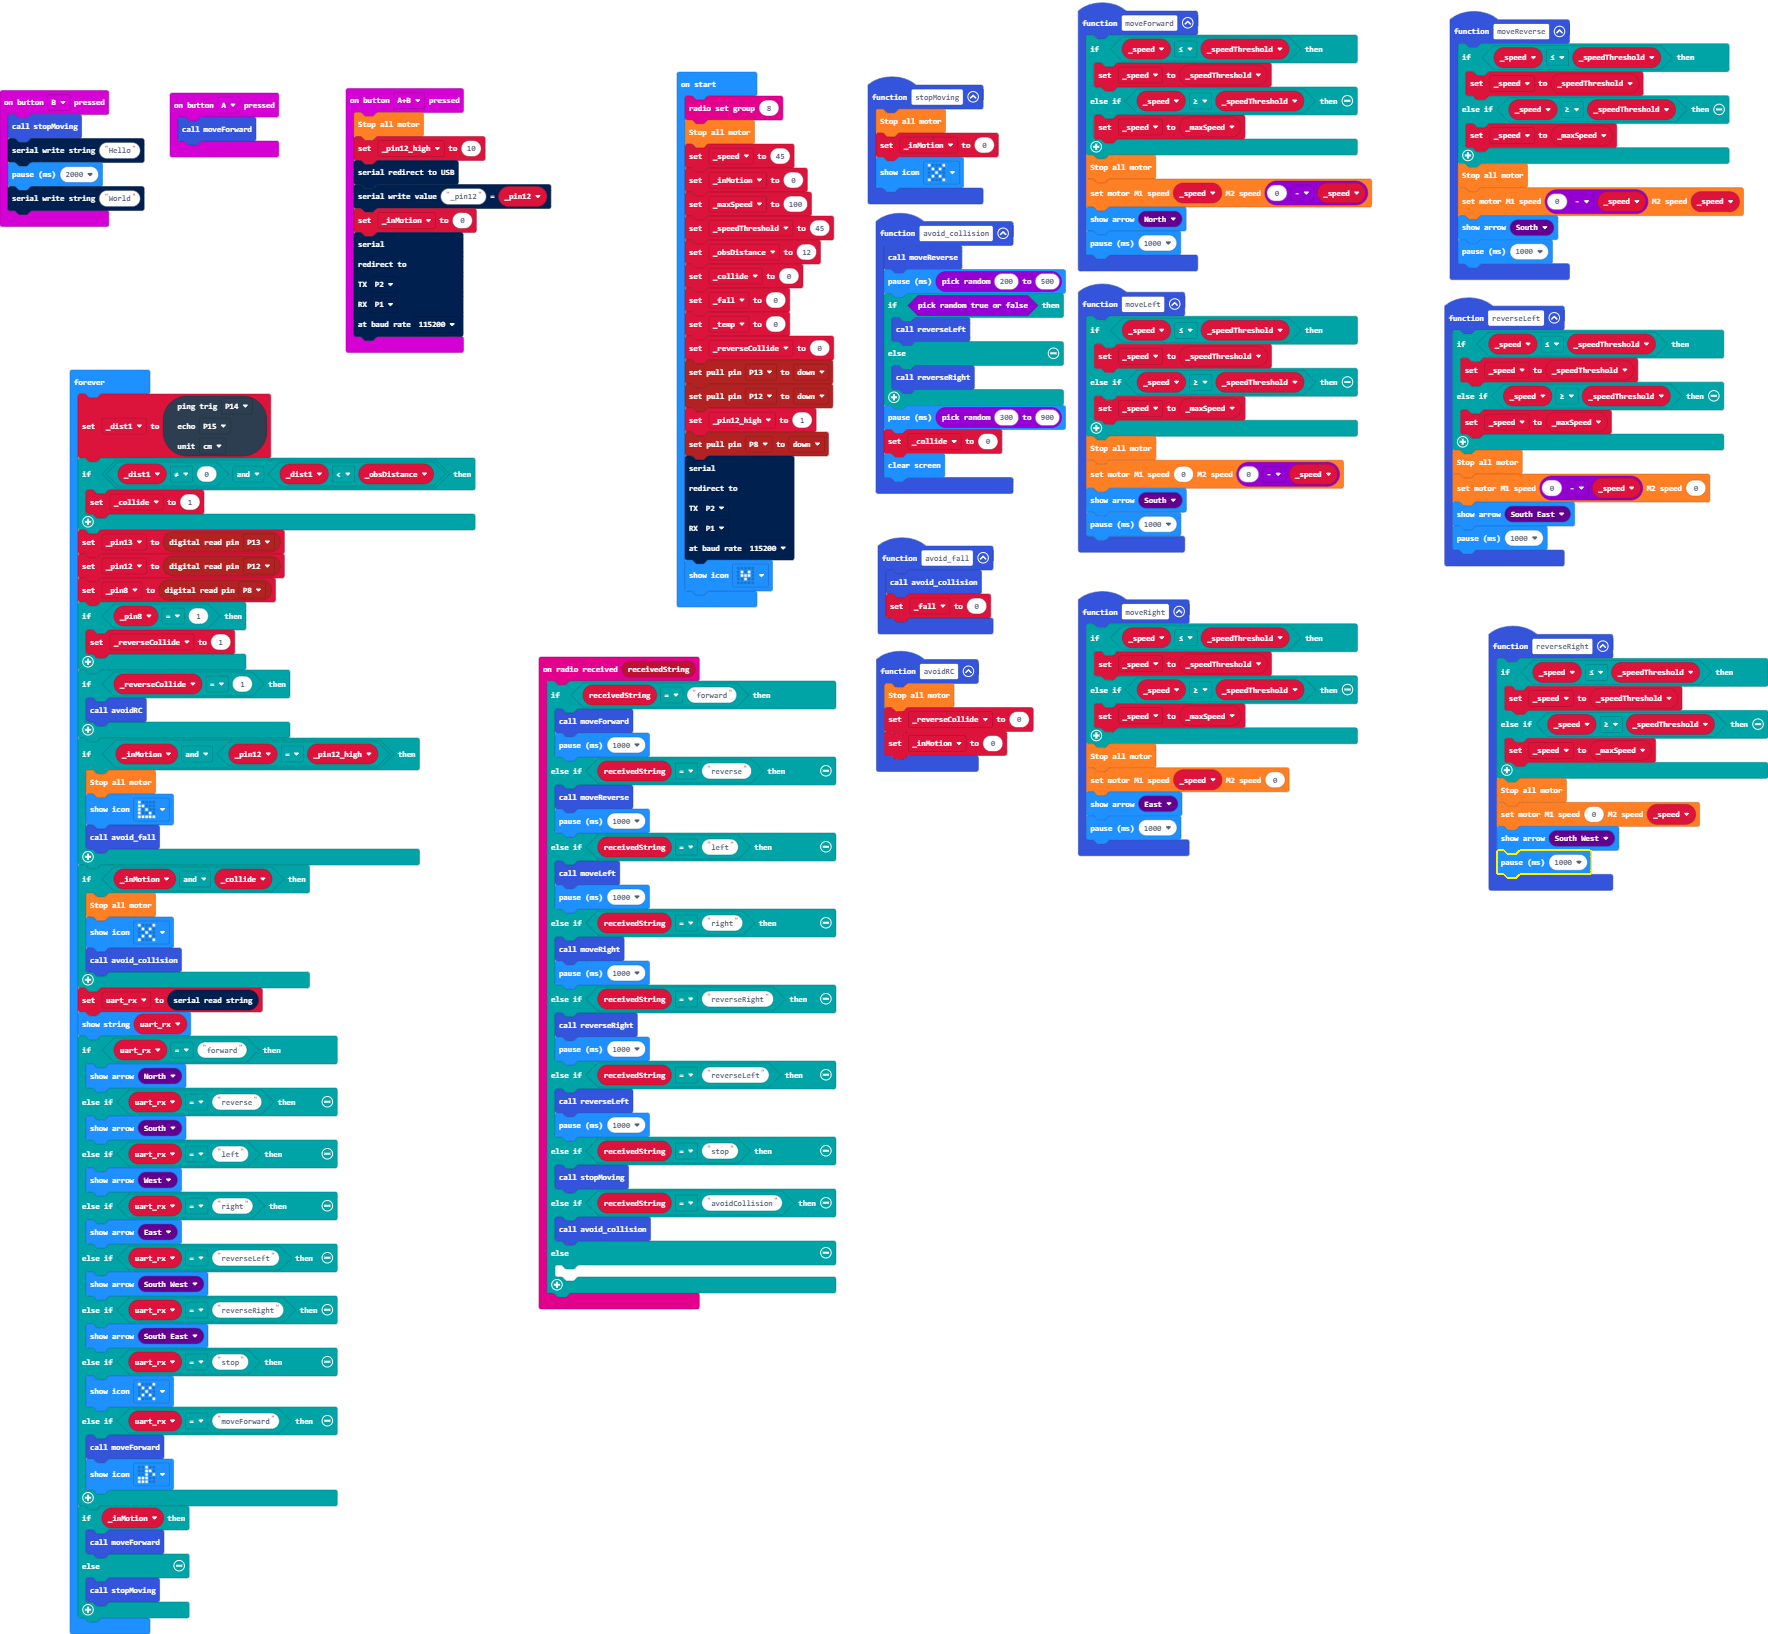
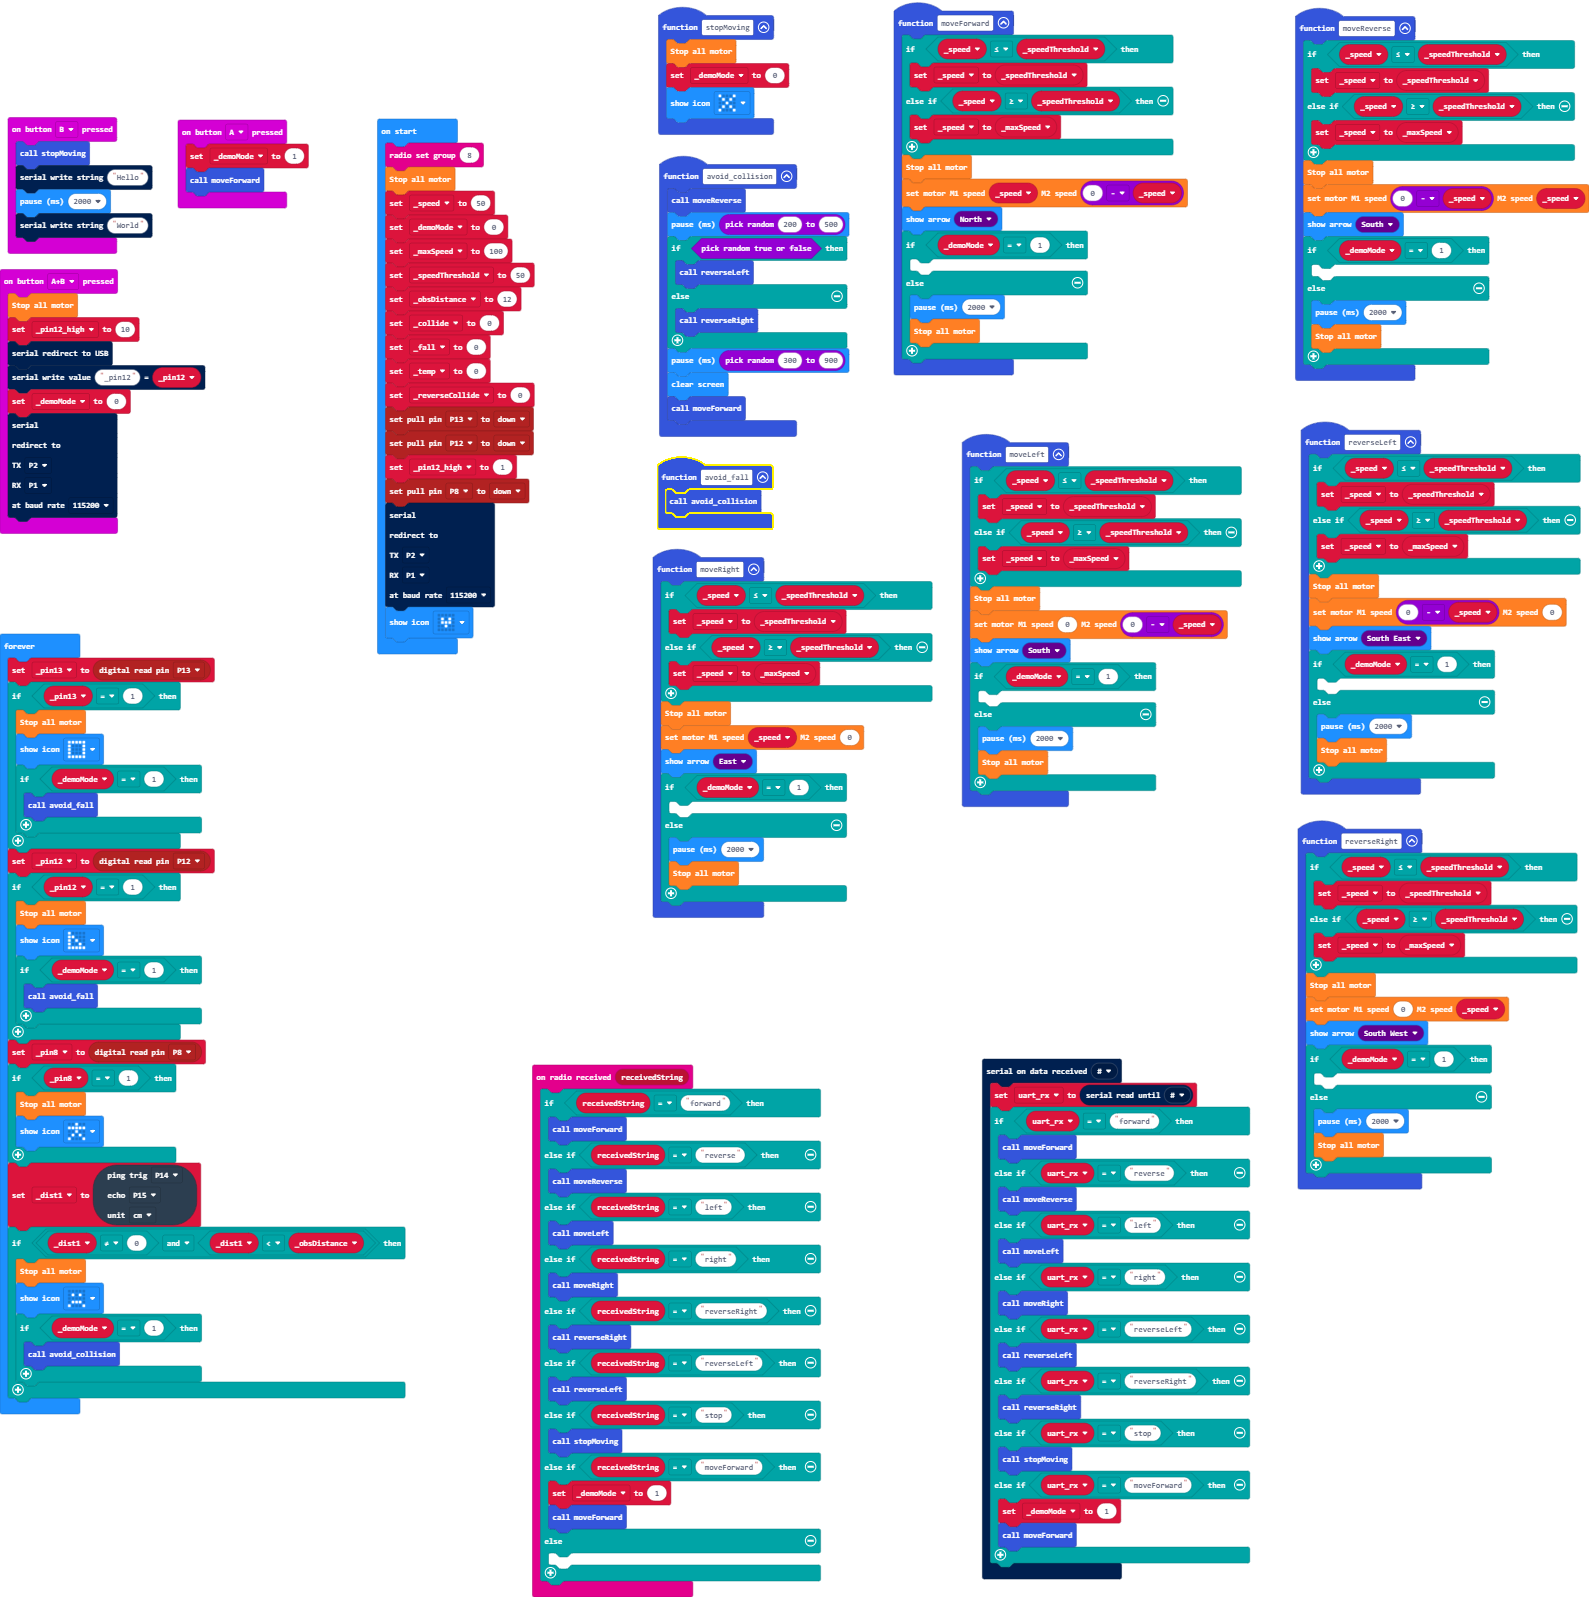
Update main.blocks, main.ts

diff --git a/main.ts b/main.ts
@@ -7,7 +7,12 @@ function moveReverse () {
     wuKong.stopAllMotor()
     wuKong.setAllMotor(0 - _speed, _speed)
     basic.showArrow(ArrowNames.South)
-    basic.pause(1000)
+    if (_demoMode == 1) {
+    	
+    } else {
+        basic.pause(2000)
+        wuKong.stopAllMotor()
+    }
 }
 function moveRight () {
     if (_speed <= _speedThreshold) {
@@ -18,7 +23,12 @@ function moveRight () {
     wuKong.stopAllMotor()
     wuKong.setAllMotor(_speed, 0)
     basic.showArrow(ArrowNames.East)
-    basic.pause(1000)
+    if (_demoMode == 1) {
+    	
+    } else {
+        basic.pause(2000)
+        wuKong.stopAllMotor()
+    }
 }
 function moveForward () {
     if (_speed <= _speedThreshold) {
@@ -29,7 +39,12 @@ function moveForward () {
     wuKong.stopAllMotor()
     wuKong.setAllMotor(_speed, 0 - _speed)
     basic.showArrow(ArrowNames.North)
-    basic.pause(1000)
+    if (_demoMode == 1) {
+    	
+    } else {
+        basic.pause(2000)
+        wuKong.stopAllMotor()
+    }
 }
 function avoid_collision () {
     moveReverse()
@@ -40,15 +55,16 @@ function avoid_collision () {
         reverseRight()
     }
     basic.pause(randint(300, 900))
-    _collide = 0
     basic.clearScreen()
+    moveForward()
 }
 input.onButtonPressed(Button.A, function () {
+    _demoMode = 1
     moveForward()
 })
 function stopMoving () {
     wuKong.stopAllMotor()
-    _inMotion = 0
+    _demoMode = 0
     basic.showIcon(IconNames.No)
 }
 function reverseLeft () {
@@ -60,19 +76,19 @@ function reverseLeft () {
     wuKong.stopAllMotor()
     wuKong.setAllMotor(0 - _speed, 0)
     basic.showArrow(ArrowNames.SouthEast)
-    basic.pause(1000)
-}
-function avoidRC () {
-    wuKong.stopAllMotor()
-    _reverseCollide = 0
-    _inMotion = 0
+    if (_demoMode == 1) {
+    	
+    } else {
+        basic.pause(2000)
+        wuKong.stopAllMotor()
+    }
 }
 input.onButtonPressed(Button.AB, function () {
     wuKong.stopAllMotor()
     _pin12_high = 10
     serial.redirectToUSB()
     serial.writeValue("_pin12", _pin12)
-    _inMotion = 0
+    _demoMode = 0
     serial.redirect(
     SerialPin.P2,
     SerialPin.P1,
@@ -82,26 +98,21 @@ input.onButtonPressed(Button.AB, function () {
 radio.onReceivedString(function (receivedString) {
     if (receivedString == "forward") {
         moveForward()
-        basic.pause(1000)
     } else if (receivedString == "reverse") {
         moveReverse()
-        basic.pause(1000)
     } else if (receivedString == "left") {
         moveLeft()
-        basic.pause(1000)
     } else if (receivedString == "right") {
         moveRight()
-        basic.pause(1000)
     } else if (receivedString == "reverseRight") {
         reverseRight()
-        basic.pause(1000)
     } else if (receivedString == "reverseLeft") {
         reverseLeft()
-        basic.pause(1000)
     } else if (receivedString == "stop") {
         stopMoving()
-    } else if (receivedString == "avoidCollision") {
-        avoid_collision()
+    } else if (receivedString == "moveForward") {
+        _demoMode = 1
+        moveForward()
     } else {
     	
     }
@@ -112,6 +123,27 @@ input.onButtonPressed(Button.B, function () {
     basic.pause(2000)
     serial.writeString("World")
 })
+serial.onDataReceived(serial.delimiters(Delimiters.Hash), function () {
+    uart_rx = serial.readUntil(serial.delimiters(Delimiters.Hash))
+    if (uart_rx == "forward") {
+        moveForward()
+    } else if (uart_rx == "reverse") {
+        moveReverse()
+    } else if (uart_rx == "left") {
+        moveLeft()
+    } else if (uart_rx == "right") {
+        moveRight()
+    } else if (uart_rx == "reverseLeft") {
+        reverseLeft()
+    } else if (uart_rx == "reverseRight") {
+        reverseRight()
+    } else if (uart_rx == "stop") {
+        stopMoving()
+    } else if (uart_rx == "moveForward") {
+        _demoMode = 1
+        moveForward()
+    }
+})
 function reverseRight () {
     if (_speed <= _speedThreshold) {
         _speed = _speedThreshold
@@ -121,7 +153,12 @@ function reverseRight () {
     wuKong.stopAllMotor()
     wuKong.setAllMotor(0, _speed)
     basic.showArrow(ArrowNames.SouthWest)
-    basic.pause(1000)
+    if (_demoMode == 1) {
+    	
+    } else {
+        basic.pause(2000)
+        wuKong.stopAllMotor()
+    }
 }
 function moveLeft () {
     if (_speed <= _speedThreshold) {
@@ -132,36 +169,37 @@ function moveLeft () {
     wuKong.stopAllMotor()
     wuKong.setAllMotor(0, 0 - _speed)
     basic.showArrow(ArrowNames.South)
-    basic.pause(1000)
+    if (_demoMode == 1) {
+    	
+    } else {
+        basic.pause(2000)
+        wuKong.stopAllMotor()
+    }
 }
 function avoid_fall () {
     avoid_collision()
-    _fall = 0
 }
-let uart_rx = ""
+let _dist1 = 0
 let _pin8 = 0
 let _pin13 = 0
-let _dist1 = 0
+let uart_rx = ""
 let _pin12 = 0
 let _pin12_high = 0
-let _reverseCollide = 0
-let _fall = 0
-let _collide = 0
 let _speedThreshold = 0
 let _maxSpeed = 0
-let _inMotion = 0
+let _demoMode = 0
 let _speed = 0
 radio.setGroup(8)
 wuKong.stopAllMotor()
-_speed = 45
-_inMotion = 0
+_speed = 50
+_demoMode = 0
 _maxSpeed = 100
-_speedThreshold = 45
+_speedThreshold = 50
 let _obsDistance = 12
-_collide = 0
-_fall = 0
+let _collide = 0
+let _fall = 0
 let _temp = 0
-_reverseCollide = 0
+let _reverseCollide = 0
 pins.setPull(DigitalPin.P13, PinPullMode.PullDown)
 pins.setPull(DigitalPin.P12, PinPullMode.PullDown)
 _pin12_high = 1
@@ -173,56 +211,37 @@ BaudRate.BaudRate115200
 )
 basic.showIcon(IconNames.SmallHeart)
 basic.forever(function () {
+    _pin13 = pins.digitalReadPin(DigitalPin.P13)
+    if (_pin13 == 1) {
+        wuKong.stopAllMotor()
+        basic.showIcon(IconNames.Square)
+        if (_demoMode == 1) {
+            avoid_fall()
+        }
+    }
+    _pin12 = pins.digitalReadPin(DigitalPin.P12)
+    if (_pin12 == 1) {
+        wuKong.stopAllMotor()
+        basic.showIcon(IconNames.LeftTriangle)
+        if (_demoMode == 1) {
+            avoid_fall()
+        }
+    }
+    _pin8 = pins.digitalReadPin(DigitalPin.P8)
+    if (_pin8 == 1) {
+        wuKong.stopAllMotor()
+        basic.showIcon(IconNames.StickFigure)
+    }
     _dist1 = sonar.ping(
     DigitalPin.P14,
     DigitalPin.P15,
     PingUnit.Centimeters
     )
     if (_dist1 != 0 && _dist1 < _obsDistance) {
-        _collide = 1
-    }
-    _pin13 = pins.digitalReadPin(DigitalPin.P13)
-    _pin12 = pins.digitalReadPin(DigitalPin.P12)
-    _pin8 = pins.digitalReadPin(DigitalPin.P8)
-    if (_pin8 == 1) {
-        _reverseCollide = 1
-    }
-    if (_reverseCollide == 1) {
-        avoidRC()
-    }
-    if (_inMotion && _pin12 == _pin12_high) {
         wuKong.stopAllMotor()
-        basic.showIcon(IconNames.LeftTriangle)
-        avoid_fall()
-    }
-    if (_inMotion && _collide) {
-        wuKong.stopAllMotor()
-        basic.showIcon(IconNames.No)
-        avoid_collision()
-    }
-    uart_rx = serial.readString()
-    basic.showString(uart_rx)
-    if (uart_rx == "forward") {
-        basic.showArrow(ArrowNames.North)
-    } else if (uart_rx == "reverse") {
-        basic.showArrow(ArrowNames.South)
-    } else if (uart_rx == "left") {
-        basic.showArrow(ArrowNames.West)
-    } else if (uart_rx == "right") {
-        basic.showArrow(ArrowNames.East)
-    } else if (uart_rx == "reverseLeft") {
-        basic.showArrow(ArrowNames.SouthWest)
-    } else if (uart_rx == "reverseRight") {
-        basic.showArrow(ArrowNames.SouthEast)
-    } else if (uart_rx == "stop") {
-        basic.showIcon(IconNames.No)
-    } else if (uart_rx == "moveForward") {
-        moveForward()
-        basic.showIcon(IconNames.EigthNote)
-    }
-    if (_inMotion) {
-        moveForward()
-    } else {
-        stopMoving()
+        basic.showIcon(IconNames.Sad)
+        if (_demoMode == 1) {
+            avoid_collision()
+        }
     }
 })
